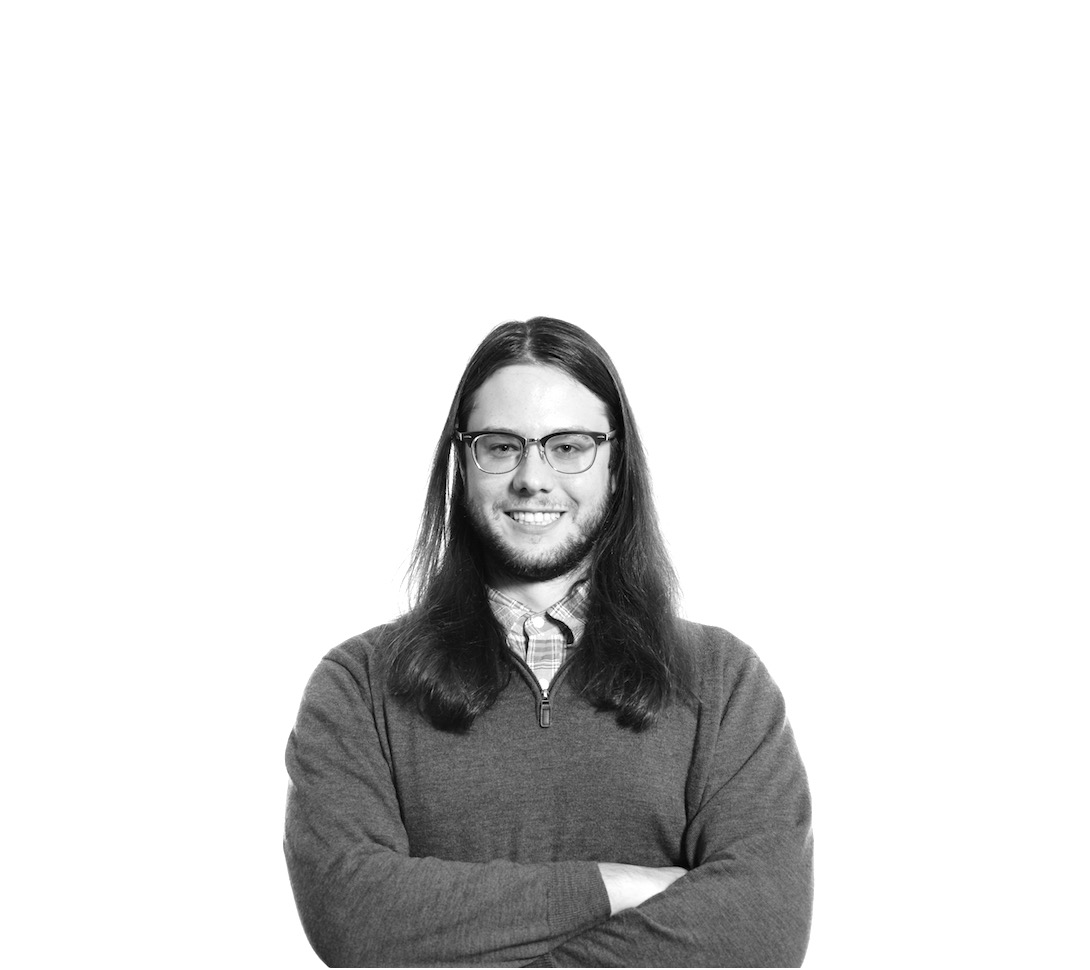
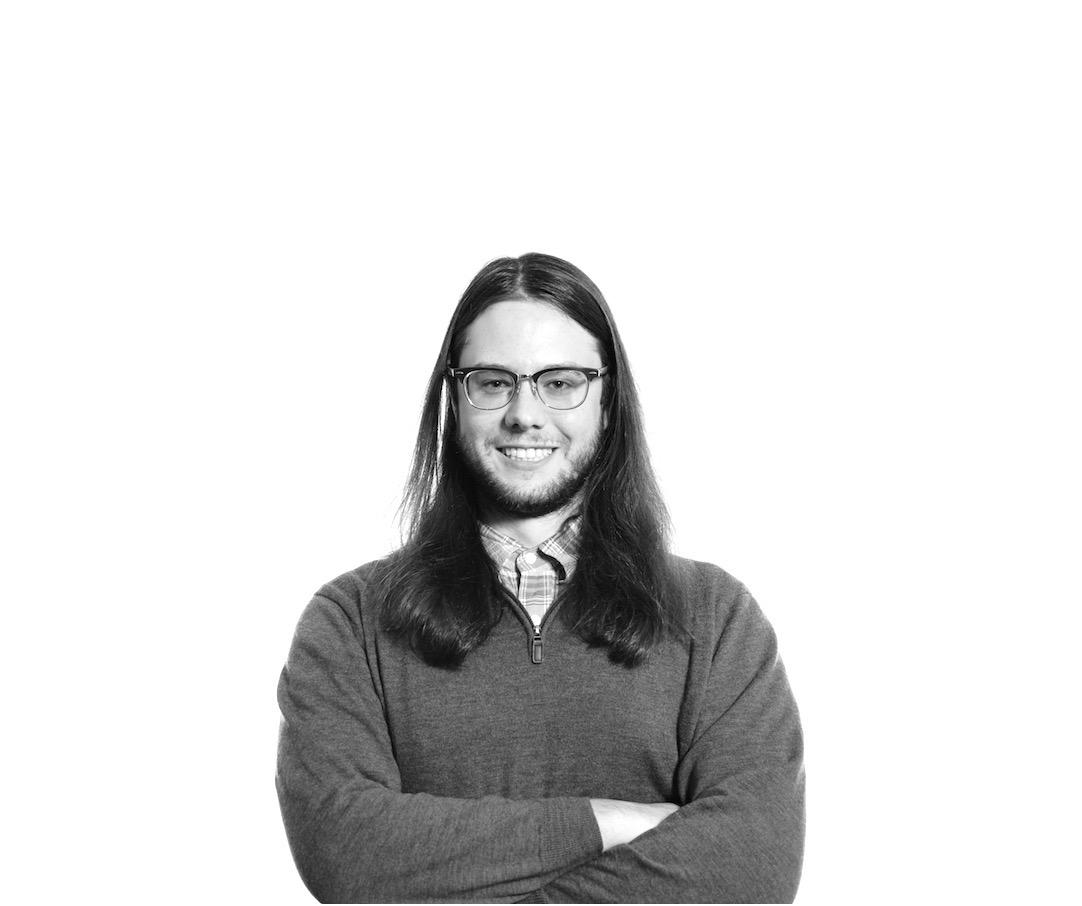
adds last nights updates

diff --git a/semantic/style.css b/semantic/style.css
@@ -24,6 +24,15 @@ body {
 
 } 
 
+h1 {
+  text-align: center;
+  margin: 0 auto;
+}
+
+li{
+  list-style-type: none;
+  text-align: center;
+}
 .name {
   font-family: 'Righteous', cursive;
   font-size: 120px;
@@ -35,12 +44,14 @@ body {
 
   margin-left:-419px; 
   margin-top:-70px;
-
+ 
 }
 
 #johnny {
 
-  margin-top: 100px;
+  margin-top: 350px;
+  padding: 7px 9px 290px 10px;
+  text-align: right;
 }
 
 .johnny { 
